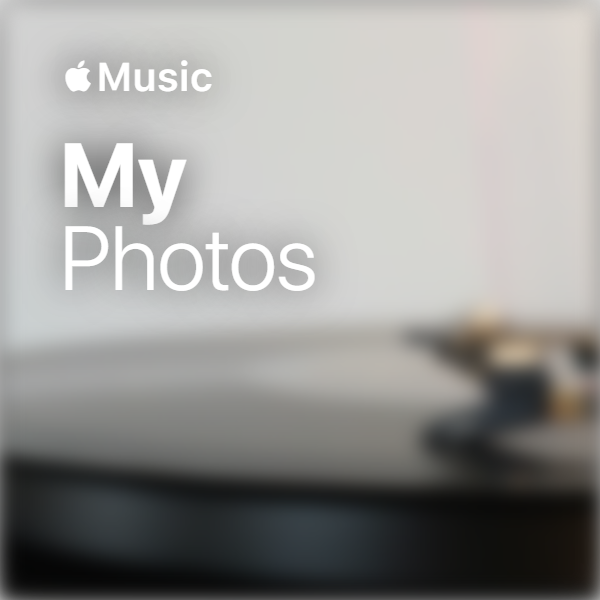
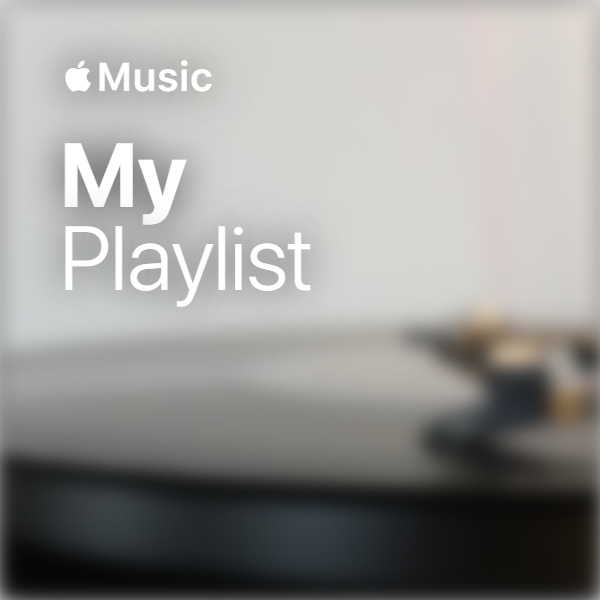
*Finished* Media

Changed region(s): [[0.21, 0.36, 0.54, 0.51]]

diff --git a/index.html b/index.html
@@ -183,8 +183,8 @@
           <!-- FIRST HOBBY CARD -->
           <div class="col-sm-4" style="padding-bottom: 20px">
             <div class="card">
-              <img src="assets/hobby/musicB.png" alt="Photography" class="photo">
-              <img src="assets/hobby/musicUB.png" alt="Photography Blurred" class="photo-blurred">
+              <img src="assets/hobby/musicB.png" alt="Music" class="photo">
+              <img src="assets/hobby/musicUB.png" alt="Music Blurred" class="photo-blurred">
               <div class="card-body">
                   <p class="card-text">Music</p>
                   <button type="button" class="btn btn-outline-success" id="hobbyBtn1">See more</button>
@@ -209,13 +209,12 @@
           <!-- 3rd HOBBY CARD -->
           <div class="col-sm-4" style="padding-bottom: 20px">
             <div class="card">
-              <div class="card">
-                <img src="assets/hobby3.jpeg" class="card-img-top" alt="...">
+                <img src="assets/hobby/mediaB.png" alt="Media" class="photo">
+                <img src="assets/hobby/mediaUB.png" alt="Media Blurred" class="photo-blurred">
                 <div class="card-body">
-                  <p class="card-text">Soccer</p>
+                  <p class="card-text">Media</p>
                   <button type="button" class="btn btn-outline-success" id="hobbyBtn3">See more</button>
                 </div>
-              </div>
             </div>
           </div>
 
@@ -400,7 +399,7 @@
             <div class="project-links">
               <a class="github-button" href="https://github.com/AdamNur422/Applied-Machine-Learning/tree/main/Final%20Project" data-color-scheme="no-preference: light; light: light; light: light;" data-size="large" aria-label="Use this GitHub Action AdamNur422/nlpProj on GitHub">View on GitHub</a>
               <a class="github-button" href="https://github.com/AdamNur422/Applied-Machine-Learning/archive/HEAD.zip" data-color-scheme="no-preference: light; light: light; dark: dark;" data-icon="octicon-download" data-size="large" aria-label="Download AdamNur422/Applied-Machine-Learning on GitHub">Download</a>
-              <a class="github-button" href="docs/FinalReport.pdf" data-color-scheme="no-preference: light_high_contrast; light: light; dark: light;" data-icon="octicon-play" data-size="large" aria-label="Download report"> Download Final report</a>
+              <a class="github-button" href="docs/FinalReport.pdf" data-color-scheme="no-preference: light_high_contrast; light: light; dark: light;" data-icon="octicon-play" data-size="large" aria-label="Download report">Download Final report</a>
             </div>
           </div>
         </div>
@@ -501,36 +500,41 @@
         <div id="modalHobby3" class="modal">
           <div class="modal-content">
             <span class="closeModal">&times;</span>
-            <h2>Soccer</h2>
+            <h2>Media</h2>
             <br>
-            <div id="carouselIndicatorsHobby3" class="carousel slide" data-bs-ride="carousel">
-              <div class="carousel-indicators">
-                <button type="button" data-bs-target="#carouselIndicatorsHobby3" data-bs-slide-to="0" class="active" aria-current="true" aria-label="Slide 1"></button>
-                <button type="button" data-bs-target="#carouselIndicatorsHobby3" data-bs-slide-to="1" aria-label="Slide 2"></button>
-                <button type="button" data-bs-target="#carouselIndicatorsHobby3" data-bs-slide-to="2" aria-label="Slide 3"></button>
-              </div>
-              <div class="carousel-inner">
-                <div class="carousel-item active">
-                  <img src="https://images.pexels.com/photos/47730/the-ball-stadion-football-the-pitch-47730.jpeg?auto=compress&cs=tinysrgb&w=1260&h=750&dpr=2" style="height: 400px; object-fit: contain; width: 100%;" class="d-block w-100" alt="...">
-                </div>
-                <div class="carousel-item">
-                  <img src="https://images.pexels.com/photos/274422/pexels-photo-274422.jpeg?auto=compress&cs=tinysrgb&w=1260&h=750&dpr=2" style="height: 400px; object-fit: contain; width: 100%;" class="d-block w-100" alt="...">
-                </div>
-                <div class="carousel-item">
-                  <img src="https://images.pexels.com/photos/3148452/pexels-photo-3148452.jpeg?auto=compress&cs=tinysrgb&w=1260&h=750&dpr=2" style="height: 400px; object-fit: contain; width: 100%;" class="d-block w-100" alt="...">
+
+            <div class="profiles-container">
+              <!-- Anime List Profile -->
+              <div class="profile anime-list-profile">
+                <img src="https://cdn.myanimelist.net/s/common/userimages/ac5e98e6-7fd1-4647-9d2d-cbd3aff58eb9_225w?s=1b0f16ae4c9d2f874de690b211466e15" alt="Anime List Profile Picture" class="profile-pic">
+                <div class="profile-info">
+                  <h3>Anime List</h3>
+                  <p>Username: Adamn422</p>
+                  <p><a href="https://myanimelist.net/profile/Adamn422" target="_blank">View my Anime List profile</a></p>
                 </div>
               </div>
-              <br>
-              <button class="carousel-control-prev" type="button" data-bs-target="#carouselIndicatorsHobby3" data-bs-slide="prev">
-                <span class="carousel-control-prev-icon" aria-hidden="true"></span>
-                <span class="visually-hidden">Previous</span>
-              </button>
-              <button class="carousel-control-next" type="button" data-bs-target="#carouselIndicatorsHobby3" data-bs-slide="next">
-                <span class="carousel-control-next-icon" aria-hidden="true"></span>
-                <span class="visually-hidden">Next</span>
-              </button>
-          </div>
-            <p>Augue neque gravida in fermentum et sollicitudin ac orci. Donec enim diam vulputate ut pharetra sit amet aliquam. Praesent semper feugiat nibh sed pulvinar proin. At ultrices mi tempus imperdiet nulla malesuada pellentesque elit eget. Posuere ac ut consequat semper. Sollicitudin tempor id eu nisl nunc mi. Quam adipiscing vitae proin sagittis nisl rhoncus mattis rhoncus.</p>
+            
+              <!-- PlayStation Profile -->
+              <div class="profile playstation-profile">
+                <img src="http://psn-rsc.prod.dl.playstation.net/psn-rsc/avatar/UP0177/PPSA03489_00-HINOKAMIAVATAR11_3974A5EDEB1DBFBA311A_m.png" alt="PlayStation Profile Picture" class="profile-pic">
+                <div class="profile-info">
+                  <h3>PlayStation</h3>
+                  <p>Username: Adamn_422</p>
+                  <p><a href="https://profile.playstation.com" target="_blank">View my PlayStation profile</a></p>
+                </div>
+              </div>
+            
+              <!-- Steam Profile -->
+              <div class="profile steam-profile">
+                <img src="https://avatars.akamai.steamstatic.com/ba840b7c89e584b1786707a5ead897558668c9f5_full.jpg" alt="Steam Profile Picture" class="profile-pic">
+                <div class="profile-info">
+                  <h3>Steam</h3>
+                  <p>Username: Adamn422</p>
+                  <p><a href="https://steamcommunity.com/id/Adamn422/" target="_blank">View my Steam profile</a></p>
+                </div>
+              </div>
+
+            </div>
           </div>
         </div>
 

diff --git a/styles.css b/styles.css
@@ -459,4 +459,44 @@ p {
   opacity: 1;
 }
 
+.profiles-container {
+  display: grid;
+  grid-template-columns: repeat(2, 1fr);
+  gap: 20px;
+}
+
+.profile {
+  display: flex;
+  align-items: center;
+  margin-bottom: 20px;
+  border: 2px solid #ccc;
+  padding: 10px; 
+  border-radius: 20px;
+  transition: transform 0.3s, box-shadow 0.3s; 
+}
+
+.profile:hover {
+  transform: scale(1.05); 
+  box-shadow: 0 4px 8px rgba(0, 0, 0, 0.2); 
+}
+
+.profile-pic {
+  width: 100px;
+  height: 100px;
+  border-radius: 100%;
+  margin-right: 20px;
+}
+
+.profile-info h3 {
+  margin: 0;
+  margin-bottom: 5px;
+}
+
+.profile-info p {
+  margin: 5px 0;
+}
+
+.modal-content hr {
+  margin: 20px 0;
+}
 
